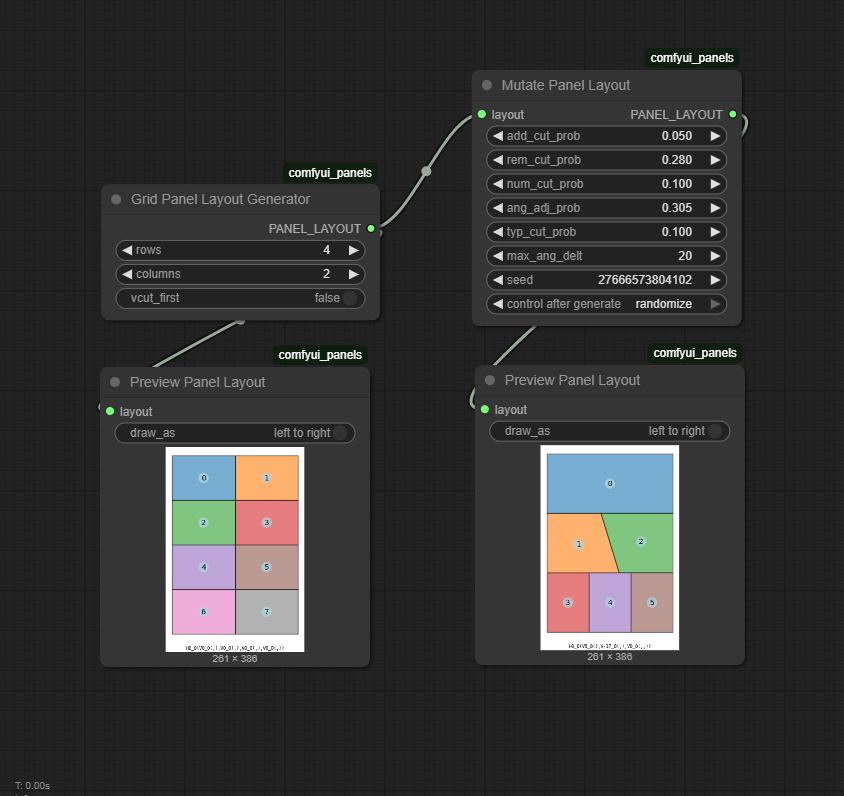
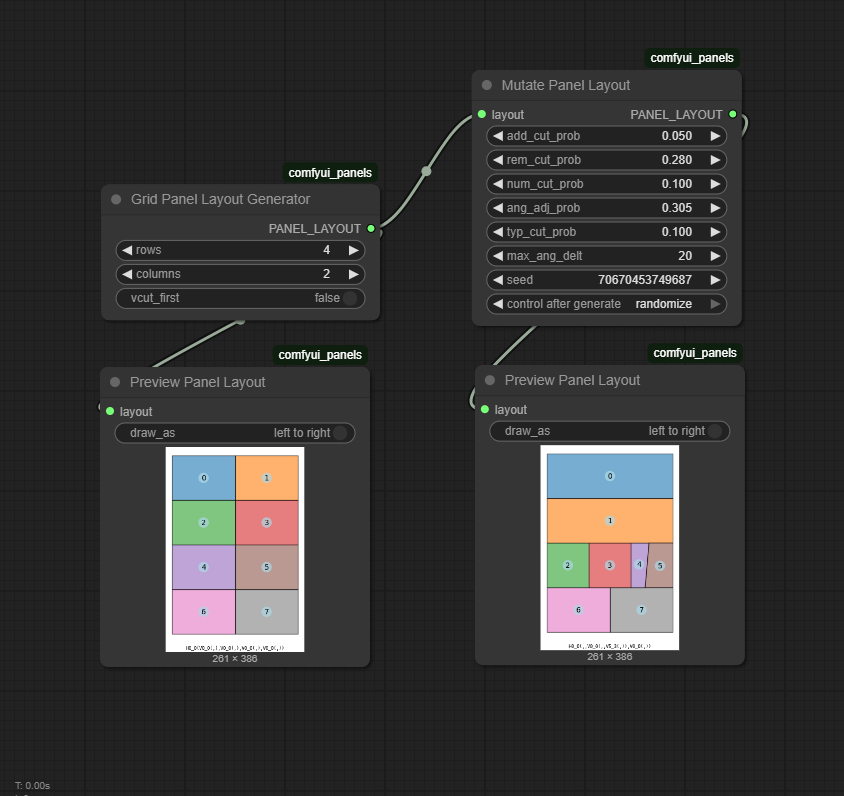
Fix rand layout gen and mutation.

Changed region(s): [[0.6469, 0.5729, 0.8009, 0.8141], [0.7085, 0.3317, 0.8318, 0.3618]]

diff --git a/nodes.py b/nodes.py
@@ -393,8 +393,9 @@ class RandomPanelLayoutGenerator:
         return {
             "required": {
                 "num_panels": ("INT", {"default": 5, "min": 2, "max": 32}),
-                "min_angle": ("INT", {"default": -30, "min": -45, "max": 45}),
-                "max_angle": ("INT", {"default": 30, "min": -45, "max": 45}),
+                "max_cuts": ("INT", {"default": 2, "min": 1, "max": 9}),
+                "min_angle": ("INT", {"default": -25, "min": -45, "max": 45}),
+                "max_angle": ("INT", {"default": 25, "min": -45, "max": 45}),
                 "seed": ("INT", {"default": 0, "min": 0, "max": 0xffffffffffffffff, "control_after_generate": True})
             }
         }
@@ -406,9 +407,10 @@ class RandomPanelLayoutGenerator:
 
     @staticmethod
     def random_cut_tree(
-            num_panels: int = 5,
-            angle_min: int = -45,
-            angle_max: int = 45,
+            num_panels: int,
+            max_cuts: int = 2,
+            min_angle: int = -15,
+            max_angle: int = 15,
             seed: Optional[int] = None
     ) -> Optional[CutNode]:
         """
@@ -421,43 +423,41 @@ class RandomPanelLayoutGenerator:
 
         rng = random.Random(seed)
 
-        # recursive builder
-        def build(panels_left: int) -> CutNode:
-            # choose random orientation
-            vertical = rng.choice([True, False])
-            # random angle
-            angle = rng.randint(angle_min, angle_max)
-            # random split mode
-            split_mode = rng.choice(list(SPLIT_MODES.keys()))
+        # 1st Generate nodes until we reach desired panel count
+        panels = 1
+        unused_nodes: list[CutNode] = []
+        while panels < num_panels:
+            remaining = num_panels - panels
+            max_possible_cuts = min(max_cuts, remaining)  # not -1, cause the cuts are nested within a prior panel
+            node = CutNode.gen_rand_node(rng, max_possible_cuts, min_angle, max_angle)
+            panels += node.cuts
+            unused_nodes.append(node)
 
-            # enforce cut count rules
-            cuts = rng.randint(1, 3) if split_mode == 0 else 1
+        if not unused_nodes:
+            return None
 
-            # create node
-            node = CutNode(vertical, angle, split_mode)
+        # Build hierarchy after all nodes have been generated
+        root = unused_nodes.pop(rng.randrange(len(unused_nodes)))
+        used_nodes_available = [root]
+        used_nodes_unavailable: list[CutNode] = []  # without empty children slots
 
-            # always creates 2 children
-            # decide how many panels to allocate to each branch
-            if panels_left <= 2:
-                # exactly 2 panels → both leaves
-                node.add_child(None)
-                node.add_child(None)
-                return node
+        while unused_nodes:
+            parent = rng.choice(used_nodes_available)
+            child_idx = rng.choice([i for i, c in enumerate(parent.children) if c is None])
+            node = unused_nodes.pop(rng.randrange(len(unused_nodes)))
+            parent.children[child_idx] = node
 
-            # randomly split the remaining panels
-            left_panels = rng.randint(1, panels_left - 1)
-            right_panels = panels_left - left_panels
+            # update availability
+            if all(c is not None for c in parent.children):
+                used_nodes_available.remove(parent)
+                used_nodes_unavailable.append(parent)
 
-            # recursively build children
-            node.add_child(build(left_panels) if left_panels > 1 else None)
-            node.add_child(build(right_panels) if right_panels > 1 else None)
+            used_nodes_available.append(node)
 
-            return node
+        return root
 
-        return build(num_panels)
-
-    def func(self, num_panels, min_angle, max_angle, seed):
-        cut_tree = self.random_cut_tree(num_panels, min_angle, max_angle, seed)
+    def func(self, num_panels, max_cuts, min_angle, max_angle, seed):
+        cut_tree = self.random_cut_tree(num_panels, max_cuts, min_angle, max_angle, seed)
         return (cut_tree,)
 
 
@@ -505,17 +505,23 @@ class MutatePanelLayout:
         rng = random.Random(seed)
 
         def _mutate_node(n: CutNode):
-            # 1) Add a child
-            if n.split_mode == 0 and rng.random() < prob_add:
-                insert_idx = rng.randint(0, len(n.children))
-                n.children.insert(insert_idx, None)
+            # 0) Recurse ( run from leafs to top to prevent endless operations )
+            for child in n.children:
+                if child is not None:
+                    _mutate_node(child)
 
-            # 2) Remove a child
-            if n.split_mode == 0 and n.cuts > 0 and rng.random() < prob_remove:
-                removable_indices = [i for i, c in enumerate(n.children) if c is not None or len(n.children) > 1]
-                if removable_indices:
-                    idx = rng.choice(removable_indices)
-                    n.children.pop(idx)
+            removable_indices = [i for i, c in enumerate(n.children) if c is not None
+                                 and rng.random() < prob_remove]  # roll for each individually
+            addable_indices = [i for i, c in enumerate(n.children) if c is None
+                               and rng.random() < prob_add]  # roll for each individually
+
+            # 1) Add a cut
+            for idx in addable_indices:
+                n.children[idx] = CutNode.gen_rand_node(rng, 2, -max_angle_delta, max_angle_delta)
+
+            # 2) Remove a cut (non None child)
+            for idx in removable_indices:
+                n.children[idx] = None
 
             # 3) Change number of cuts
             if n.split_mode == 0 and rng.random() < prob_change_cuts:
@@ -544,11 +550,6 @@ class MutatePanelLayout:
                     # ensure children are compatible: non-midpoint → only 1 cut
                     if n.split_mode != 0 and len(n.children) > 2:
                         n.children = n.children[:2]
-
-            # 6) Recurse
-            for child in n.children:
-                if child is not None:
-                    _mutate_node(child)
 
         _mutate_node(node)
         return node

diff --git a/CutNode.py b/CutNode.py
@@ -7,6 +7,7 @@ from shapely.geometry.polygon import orient
 from shapely import affinity
 from PIL import Image, ImageDraw, ImageOps
 import matplotlib.pyplot as plt
+import random
 import math
 import copy
 
@@ -358,6 +359,17 @@ class CutNode:
 
         return out
 
+    @staticmethod
+    def gen_rand_node(rng: random.Random, max_cuts: int = 2, min_angle: int = -15, max_angle: int = 15):
+        vertical = rng.choice([True, False])
+        angle = rng.randint(min_angle, max_angle)
+        split_mode = rng.choice(list(SPLIT_MODES.keys()))
+        cuts = rng.randint(1, max_cuts) if split_mode == 0 else 1
+        node = CutNode(vertical, angle, split_mode)
+        for _ in range(cuts + 1):
+            node.add_child(None)
+        return node
+
 
 def layout_to_image(
     cut_tree: CutNode,
@@ -489,4 +501,3 @@ def draw_polygon_contours(
 
     img = ImageOps.flip(img)
     return img.resize((width, height), Image.Resampling.LANCZOS)
-
